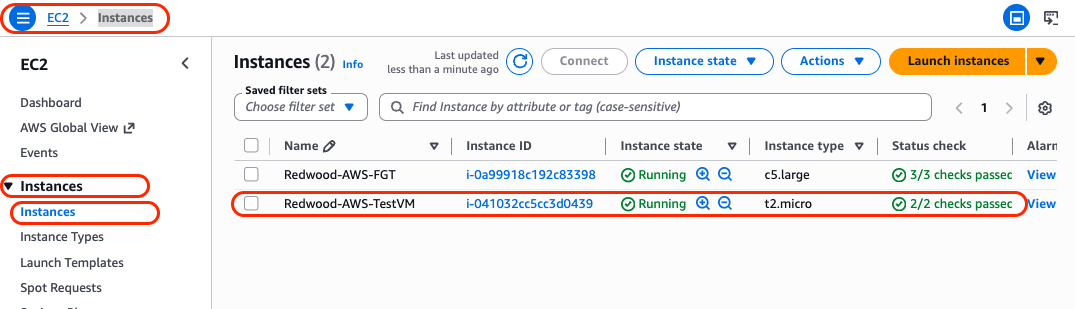
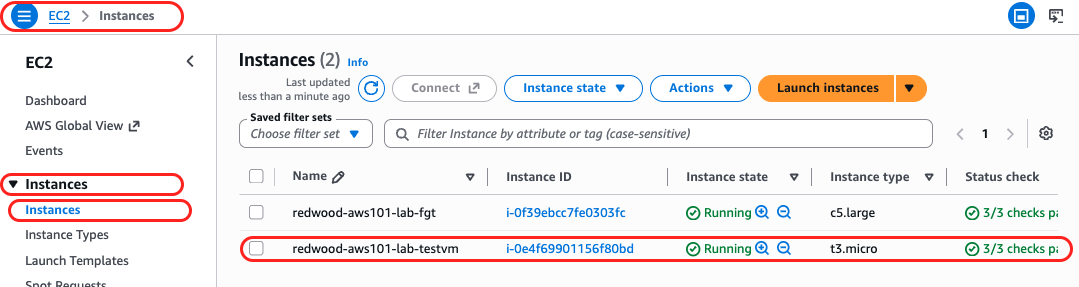
Finalize Lab 3
- Replace Lab 3 screenshots and add the outbound flow diagram (step7.flow)
- Apply author edits to Labs 2 and 3

diff --git a/aws-101-lab3/README.md b/aws-101-lab3/README.md
@@ -23,7 +23,7 @@ Along the way you'll see FortiGate's default behavior in action: anything you ha
 
 ## Step 1: Launch the Test EC2 Instance
 
-**Why:** You need a workload to protect. This small Ubuntu VM plays the role of Redwood's application server. You place it in the **private** subnet with **no public IP**, so it has no direct connection to the Internet. Its only path in or out is the private route table from Lab 2, which sends everything to FortiGate's `port2`. You also give it a fixed IP, `10.100.2.10`, because FortiGate's address object and VIPs will point at that address.
+You need a workload to protect. This small Ubuntu VM plays the role of Redwood's application server. You place it in the **private** subnet with **no public IP**, so it has no direct connection to the Internet. Its only path in or out is the private route table from Lab 2, which sends everything to FortiGate's `port2`. You also give it a fixed IP, `10.100.2.10`, because FortiGate's address object and VIPs will point at that address.
 
 1. **Start the launch wizard:**
    - Open the EC2 console. In the left navigation pane, choose **Instances**.
@@ -41,14 +41,14 @@ Along the way you'll see FortiGate's default behavior in action: anything you ha
      | Value | `Redwood-AWS-101` |
      | Resource types | **Instances, Volumes, Network interfaces** |
 
-   ![TAGS](images/step1.2.png)
+     ![TAGS](images/step1.2.png)
 
 3. **Choose the image (AMI):**
    - Under **Application and OS Images**, select the **Quick Start** tab, then **Ubuntu**.
    - In **Amazon Machine Image (AMI)**, select **Ubuntu Server 26.04 LTS (HVM), SSD Volume Type**.
    - Set **Architecture** to **64-bit (x86)**.
 
-   ![OS IMAGE](images/step1.3.png)
+     ![OS IMAGE](images/step1.3.png)
 
 4. **Instance type:**
    - Select `t3.micro` (2 vCPU, 1 GiB memory). A test server needs very little capacity.
@@ -77,8 +77,8 @@ Along the way you'll see FortiGate's default behavior in action: anything you ha
 
      | Type | Port range | Source type | Source | Description |
      | --- | --- | --- | --- | --- |
-     | SSH | 22 | Anywhere | `0.0.0.0/0` | SSH from the Internet, via FortiGate |
-     | HTTP | 80 | Anywhere | `0.0.0.0/0` | HTTP from the Internet, via FortiGate |
+     | SSH | 22 | Anywhere | `0.0.0.0/0` | SSH from the Internet to VM (via FortiGate) |
+     | HTTP | 80 | Anywhere | `0.0.0.0/0` | HTTP from the Internet to VM (via FortiGate) |
 
      ![SG](images/step1.6.b.png)
 
@@ -89,7 +89,7 @@ Along the way you'll see FortiGate's default behavior in action: anything you ha
    - Still in **Network settings**, expand **Advanced network configuration**.
    - Under **Network interface 1**, set **Primary IP** to `10.100.2.10`.
 
-   ![FIXED IP ADD](images/step1.7.png)
+     ![FIXED IP ADD](images/step1.7.png)
 
 8. **Storage:**
    - Keep the default 8 GiB `gp3` root volume.
@@ -100,9 +100,9 @@ Along the way you'll see FortiGate's default behavior in action: anything you ha
 
 10. **Launch:**
     - Choose **Launch instance**, then **View all instances**.
-    - Wait until **Instance state** shows **Running** and **Status check** shows **2/2 checks passed**.
+    - Wait until **Instance state** shows **Running** and **Status check** shows **3/3 checks passed**.
 
-    ![RUNNING INSTANCE](images/step1.10.png)
+      ![RUNNING INSTANCE](images/step1.10.png)
 
 > [!IMPORTANT]
 > The VM must have **no public IP**. If it has one, Internet traffic could reach it directly and bypass FortiGate, which defeats the purpose of this lab.
@@ -121,7 +121,7 @@ The test VM is running, but nobody can reach it: it has no public IP, and FortiG
 
 ## Step 2: Create the Address Object
 
-**Why:** FortiGate policies and VIPs refer to hosts and networks through named **address objects** rather than raw IPs. Defining the test VM once as `TESTVM-INTERNAL` makes every policy that uses it easier to read ("allow to TESTVM-INTERNAL" instead of "allow to 10.100.2.10/32"). If the VM's address ever changes, you update one object instead of every policy.
+FortiGate policies and VIPs refer to hosts and networks through named **address objects** rather than raw IPs. Defining the test VM once as `TESTVM-INTERNAL` makes every policy that uses it easier to read ("allow to TESTVM-INTERNAL" instead of "allow to 10.100.2.10/32"). If the VM's address ever changes, you update one object instead of every policy.
 
 1. **Log in to FortiGate:**
    - In your browser, go to `https://<FGT-EIP>` and log in as `admin` with the password you set in Lab 2.
@@ -136,6 +136,7 @@ The test VM is running, but nobody can reach it: it has no public IP, and FortiG
      | Type | **Subnet** |
      | IP/Netmask | `10.100.2.10/32` |
      | Interface | `port2` |
+     | Routing configuration | `disabled` |
 
      ![ADDRESS CONFIG](images/step2.2.png)
 
@@ -149,7 +150,7 @@ The test VM is running, but nobody can reach it: it has no public IP, and FortiG
 
 ## Step 3: Create the Virtual IPs
 
-**Why:** A Virtual IP (VIP) is FortiGate's **destination NAT**. It tells FortiGate: "when traffic arrives on this public IP and port, send it to this private IP and port." You create two VIPs that share FortiGate's Elastic IP:
+A Virtual IP (VIP) is FortiGate's **destination NAT**. It tells FortiGate: "when traffic arrives on this public IP and port, send it to this private IP and port." You create two VIPs that share FortiGate's Elastic IP:
 
 - Port `2222` → test VM port `22` (SSH)
 - Port `8080` → test VM port `80` (HTTP)
@@ -162,9 +163,11 @@ Using different external ports lets one public IP publish several services. Port
 On AWS, `port1` holds a private VPC address (`10.100.1.x`). The Internet Gateway translates the Elastic IP to that private address 1:1 before the packet reaches FortiGate, so FortiOS never sees the Elastic IP. Inbound packets arrive addressed to `port1`'s private IP. Setting the VIP's external IP to `0.0.0.0` tells FortiGate to match whatever address `port1` has.
 </details>
 
+---
+
 1. **Create the SSH VIP:**
    - Go to **Policy & Objects → Virtual IPs**.
-   - Choose **Create new → Virtual IP** and fill in:
+   - Choose **Virtual IP → +Create new** and fill in:
 
      | Parameter | Value |
      | --- | --- |
@@ -185,7 +188,7 @@ On AWS, `port1` holds a private VPC address (`10.100.1.x`). The Internet Gateway
    - Choose **OK**.
 
 2. **Create the HTTP VIP:**
-   - Choose **Create new → Virtual IP** again and fill in the same values, except:
+   - Choose **Virtual IP → +Create new** again and fill in the same values, except:
 
      | Parameter | Value |
      | --- | --- |
@@ -208,11 +211,11 @@ On AWS, `port1` holds a private VPC address (`10.100.1.x`). The Internet Gateway
 
 ## Step 4: Create the Virtual IP Group
 
-**Why:** A firewall policy's destination can be a single VIP or a group of VIPs. Grouping the SSH and HTTP VIPs means one inbound policy covers both services, instead of two nearly identical policies. When Redwood publishes another service on this server, you just add its VIP to the group.
+A firewall policy's destination can be a single VIP or a group of VIPs. Grouping the SSH and HTTP VIPs means one inbound policy covers both services, instead of two nearly identical policies. When Redwood publishes another service on this server, you just add its VIP to the group.
 
 1. **Create the group:**
    - Still in **Policy & Objects → Virtual IPs**, select the **Virtual IP Group** tab.
-   - Choose **Create new** and fill in:
+   - Choose **+Create new** and fill in:
 
      | Parameter | Value |
      | --- | --- |
@@ -233,7 +236,7 @@ On AWS, `port1` holds a private VPC address (`10.100.1.x`). The Internet Gateway
 
 ## Step 5: Create the Inbound Policy (port1 → port2)
 
-**Why:** The VIPs translate addresses, but they don't allow anything by themselves. FortiGate **denies all traffic by default**: every flow needs an explicit policy that accepts it. This policy allows traffic arriving from the Internet on `port1` to reach the published VIPs through `port2`, for the SSH and HTTP services only. Logging all sessions gives the security team its audit trail.
+The VIPs translate addresses, but they don't allow anything by themselves. FortiGate **denies all traffic by default**: every flow needs an explicit policy that accepts it. This policy allows traffic arriving from the Internet on `port1` to reach the published VIPs through `port2`, for the SSH and HTTP services only. Logging all sessions gives the security team its audit trail.
 
 1. **Create the policy:**
    - Go to **Policy & Objects → Firewall Policy**.
@@ -242,13 +245,13 @@ On AWS, `port1` holds a private VPC address (`10.100.1.x`). The Internet Gateway
      | Parameter | Value |
      | --- | --- |
      | Name | `testvm_access_vip` |
+     | Schedule | `always` |
+     | Action | **ACCEPT** |
      | Incoming interface | `port1` |
      | Outgoing interface | `port2` |
      | Source | `all` |
      | Destination | `TESTVM-INTERNAL-VIPGRP` |
-     | Schedule | `always` |
      | Service | `SSH`, `HTTP` |
-     | Action | **ACCEPT** |
      | **Firewall/Network Options** | |
      | NAT | **Disabled** |
      | **Logging Options** | |
@@ -263,7 +266,10 @@ On AWS, `port1` holds a private VPC address (`10.100.1.x`). The Internet Gateway
 
 - **NAT disabled:** the VIP already performs destination NAT. Leaving source NAT off means the test VM sees the real client IP, which keeps the VM's own logs accurate. It's also why the VM's security group allows `0.0.0.0/0`.
 - **Source `all`:** lets attendees connect from any network. In production, narrow the source to an office IP range or a jump host.
+
 </details>
+
+---
 
 **Check:**
 
@@ -274,7 +280,7 @@ On AWS, `port1` holds a private VPC address (`10.100.1.x`). The Internet Gateway
 
 ## Step 6: Test SSH Through the VIP
 
-**Why:** This proves the inbound path works end to end: your laptop → Elastic IP → Internet Gateway → FortiGate `port1` → VIP translation → policy check → `port2` → test VM. Once you're on the VM, you also confirm the other half of the story: the VM can't reach the Internet yet, because no policy allows outbound traffic.
+This proves the inbound path works end to end: your laptop → Elastic IP → Internet Gateway → FortiGate `port1` → VIP translation → policy check → `port2` → test VM. Once you're on the VM, you also confirm the other half of the story: the VM can't reach the Internet yet, because no policy allows outbound traffic.
 
 1. **SSH to the test VM through FortiGate:**
    - On **macOS, Linux, or WSL**, run:
@@ -331,7 +337,7 @@ Keep this SSH session open for the next steps.
 
 ## Step 7: Create the Outbound Policy (port2 → port1)
 
-**Why:** The application server needs Internet access for software updates, DNS, and API calls, but only through FortiGate. This policy allows traffic from the private side (`port2`) to the Internet (`port1`). It also enables **source NAT**, which is mandatory on AWS. The Internet Gateway only translates addresses that have a public IP associated with them. `port1`'s address has the Elastic IP, and the VM's `10.100.2.10` has none. FortiGate must therefore replace the VM's address with `port1`'s address before the packet leaves.
+The application server needs Internet access for software updates, DNS, and API calls, but only through FortiGate. The folllowing policy allows traffic from the private side (`port2`) to the Internet (`port1`). It also enables **source NAT**, which is mandatory on AWS. The Internet Gateway only translates addresses that have a public IP associated with them. `port1`'s address has the Elastic IP, and the VM's `10.100.2.10` has none. FortiGate must therefore replace the VM's address with `port1`'s address before the packet leaves.
 
 1. **Create the policy:**
    - Go to **Policy & Objects → Firewall Policy**.
@@ -340,13 +346,13 @@ Keep this SSH session open for the next steps.
      | Parameter | Value |
      | --- | --- |
      | Name | `internet_access` |
+     | Schedule | `always` |
+     | Action | **ACCEPT** |
      | Incoming interface | `port2` |
      | Outgoing interface | `port1` |
      | Source | `all` |
      | Destination | `all` |
-     | Schedule | `always` |
      | Service | `ALL` |
-     | Action | **ACCEPT** |
      | **Firewall/Network Options** | |
      | NAT | **Enabled** |
      | IP Pool Configuration | **Use Outgoing Interface Address** |
@@ -363,14 +369,12 @@ Keep this SSH session open for the next steps.
 <details>
 <summary><b>The full outbound NAT path</b></summary>
 
-```text
-Test VM 10.100.2.10 → port2 → FortiGate source NAT to 10.100.1.x (port1)
-  → Internet Gateway translates 10.100.1.x to the Elastic IP → Internet
-Replies: Elastic IP → Internet Gateway → port1 → FortiGate reverses the NAT → Test VM
-```
+![TRAFFIC FLOW](images/step7.flow.png)
 
 There are two NAT steps: FortiGate translates the VM's address to `port1`'s address, then the Internet Gateway translates `port1`'s address to the Elastic IP.
 </details>
+
+---
 
 **Check:**
 
@@ -381,7 +385,7 @@ There are two NAT steps: FortiGate translates the VM's address to `port1`'s addr
 
 ## Step 8: Test Outbound Access and Publish the Web Server
 
-**Why:** Now you repeat the tests that failed in Step 6, to prove the outbound policy works. You also confirm that the VM's traffic reaches the Internet from FortiGate's Elastic IP, not from any address of its own. With outbound access working, the server can finally install its web server. That lets you test the second inbound service, HTTP on port `8080`.
+Now you repeat the tests that failed in Step 6, to prove the outbound policy works. You also confirm that the VM's traffic reaches the Internet from FortiGate's Elastic IP, not from any address of its own. With outbound access working, the server can finally install its web server. That lets you test the second inbound service, HTTP on port `8080`.
 
 1. **Repeat the outbound tests** in your SSH session on the test VM:
 
@@ -428,13 +432,13 @@ The traffic works. Now you show the security team the evidence: every session yo
 
 ## Step 9: Review the Forward Traffic Logs
 
-**Why:** Working connectivity alone doesn't prove inspection. The Forward Traffic log records every session FortiGate forwarded: which policy allowed it, which interfaces it used, and how it was translated. This is the audit trail the security team asked for.
+Working connectivity alone doesn't prove inspection. The Forward Traffic log records every session FortiGate forwarded: which policy allowed it, which interfaces it used, and how it was translated. This is the audit trail the security team asked for.
 
 1. **Open the log:**
    - In the FortiGate GUI, go to **Log & Report → Forward Traffic**.
    - You'll see the sessions from Steps 6 and 8.
 
-   ![TRAFFIC LOG](images/step9.1.png)
+     ![TRAFFIC LOG](images/step9.1.png)
 
 2. **Inspect an outbound session:**
    - Select a session with source `10.100.2.10` and open its details. Confirm:
@@ -448,7 +452,7 @@ The traffic works. Now you show the security team the evidence: every session yo
      | NAT / Source NAT IP | `10.100.1.x` (FortiGate's `port1`) |
      | Action | `accept` |
 
-   ![LOG DETAILS](images/step9.2.png)
+     ![LOG DETAILS](images/step9.2.png)
 
 3. **Inspect an inbound session:**
    - Find a session for your SSH or HTTP connection. It shows policy `testvm_access_vip`, interfaces `port1` → `port2`, and your workstation's public IP as the source.
@@ -468,7 +472,7 @@ The traffic works. Now you show the security team the evidence: every session yo
 
 ## Step 10: Explore FortiView
 
-**Why:** Logs show individual sessions, while FortiView shows the big picture: who is talking to whom, how much, and through which policies. It needs no configuration, because it reads the same log data. It's the dashboard a security team would use to spot unusual behavior from a workload.
+Logs show individual sessions, while FortiView shows the big picture: who is talking to whom, how much, and through which policies. It needs no configuration, because it reads the same log data. It's the dashboard a security team would use to spot unusual behavior from a workload.
 
 1. **Open FortiView Sources:**
    - Go to **Dashboard → FortiView Sources**.

diff --git a/aws-101-lab2/README.md b/aws-101-lab2/README.md
@@ -528,10 +528,12 @@ This route table is what makes FortiGate the inspection point. Its default route
 - [x] Each subnet has its own route table, and neither uses the Main route table.
 
 <details>
+
 <summary><b>Production considerations</b></summary>
 
 - **Availability:** a single FortiGate in one Availability Zone is a single point of failure for everything behind it. Production designs use FortiGate FGCP active-passive HA across two AZs (AWS-102), or a FortiGate fleet behind a Gateway Load Balancer.
 - **Sizing:** choose the instance type based on the throughput you need to inspect with your security profiles enabled. Check Fortinet's list of supported instance types.
+
 </details>
 
 ---
